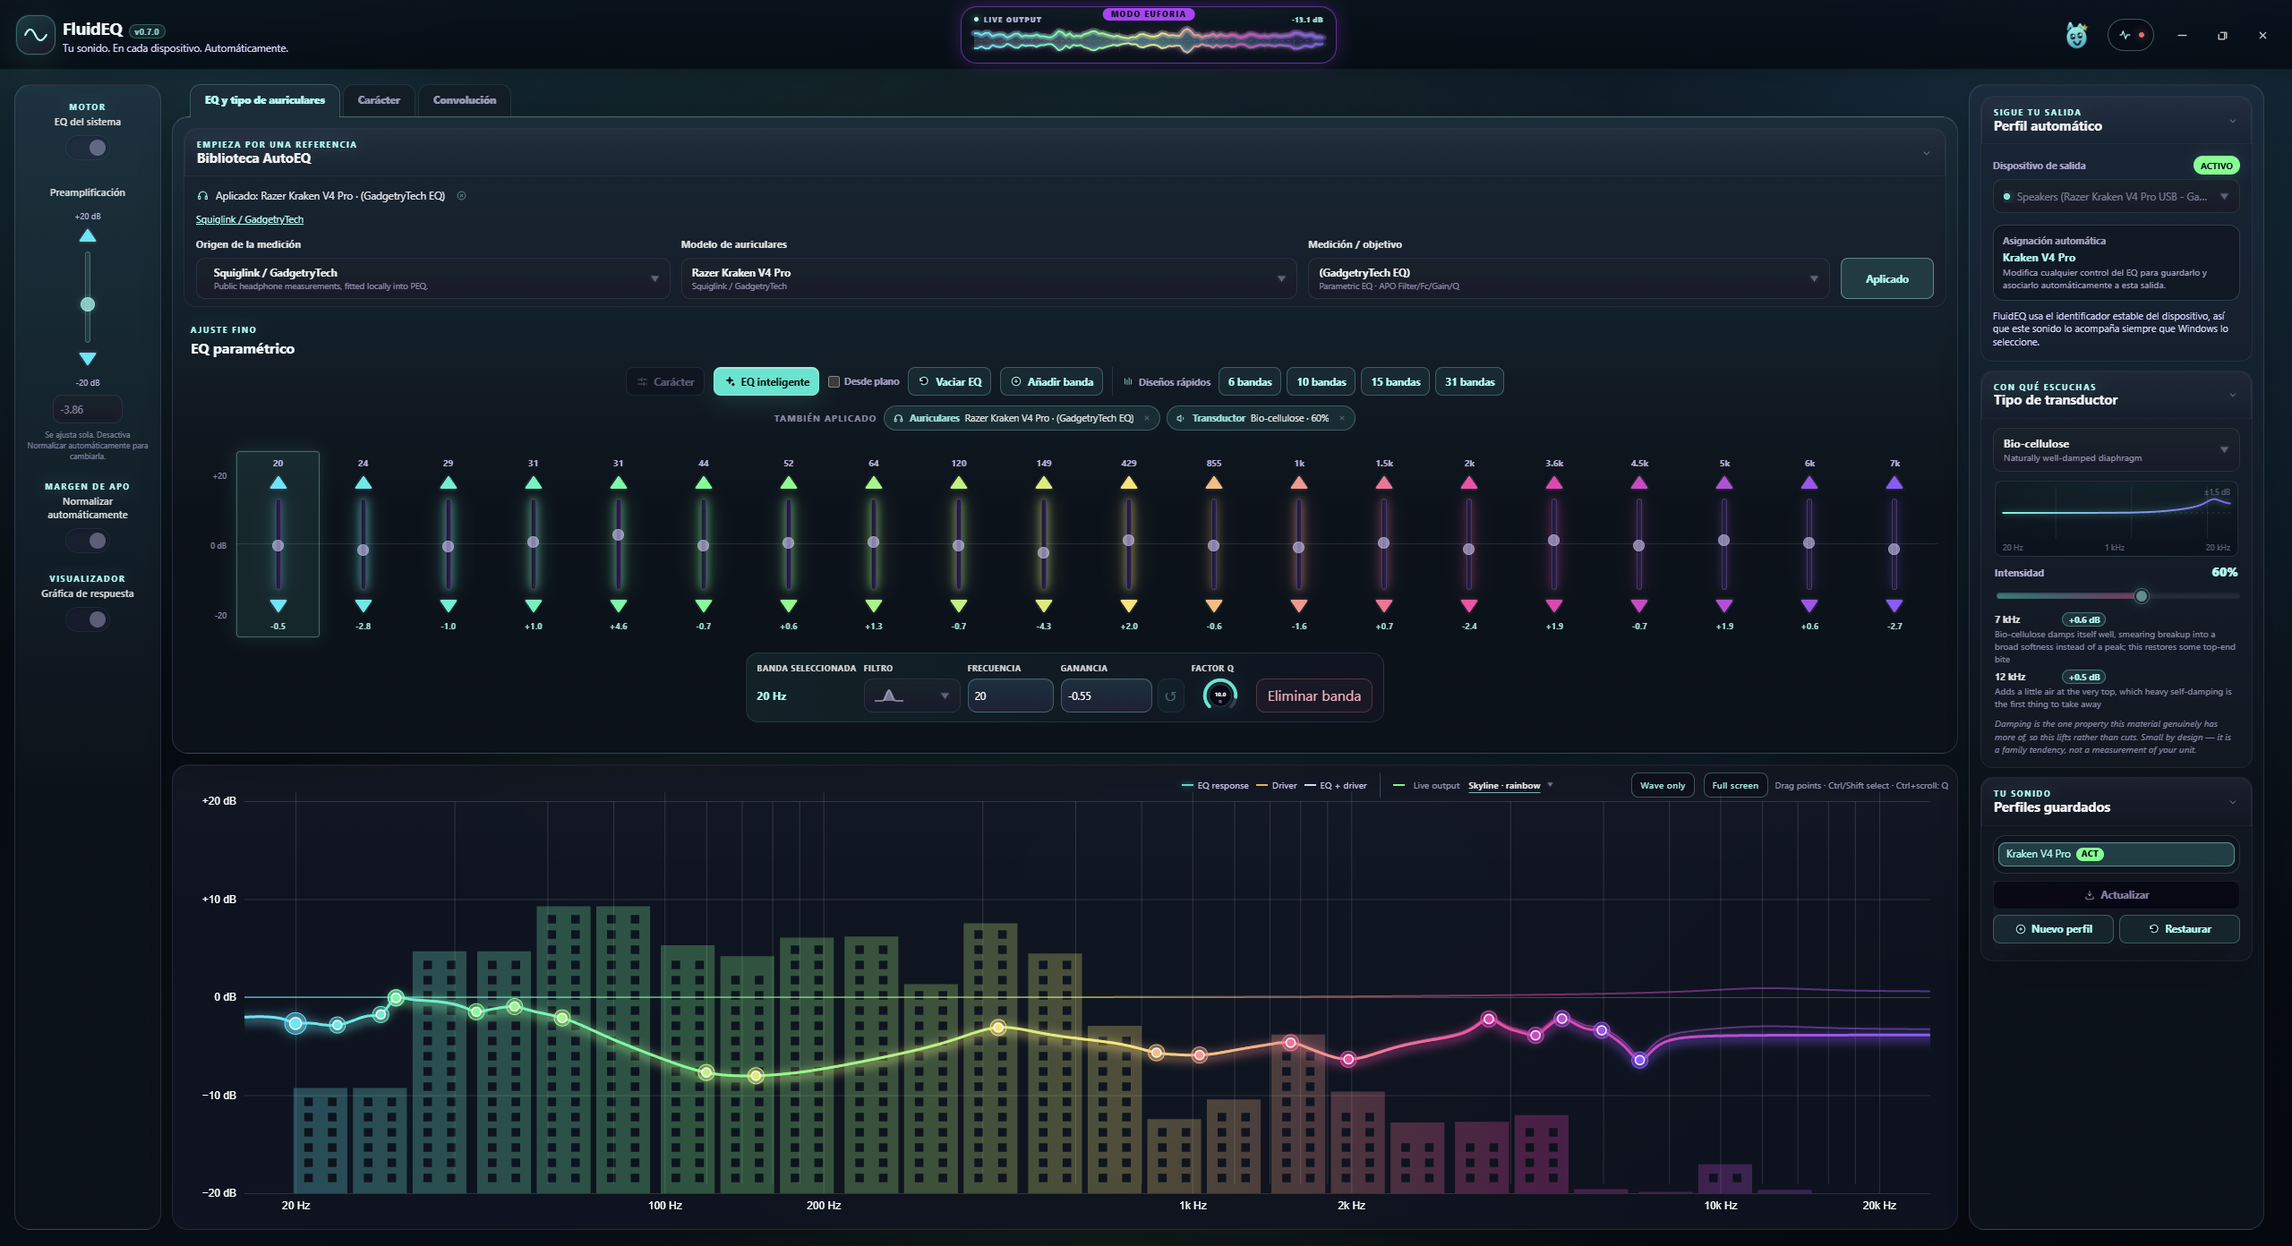
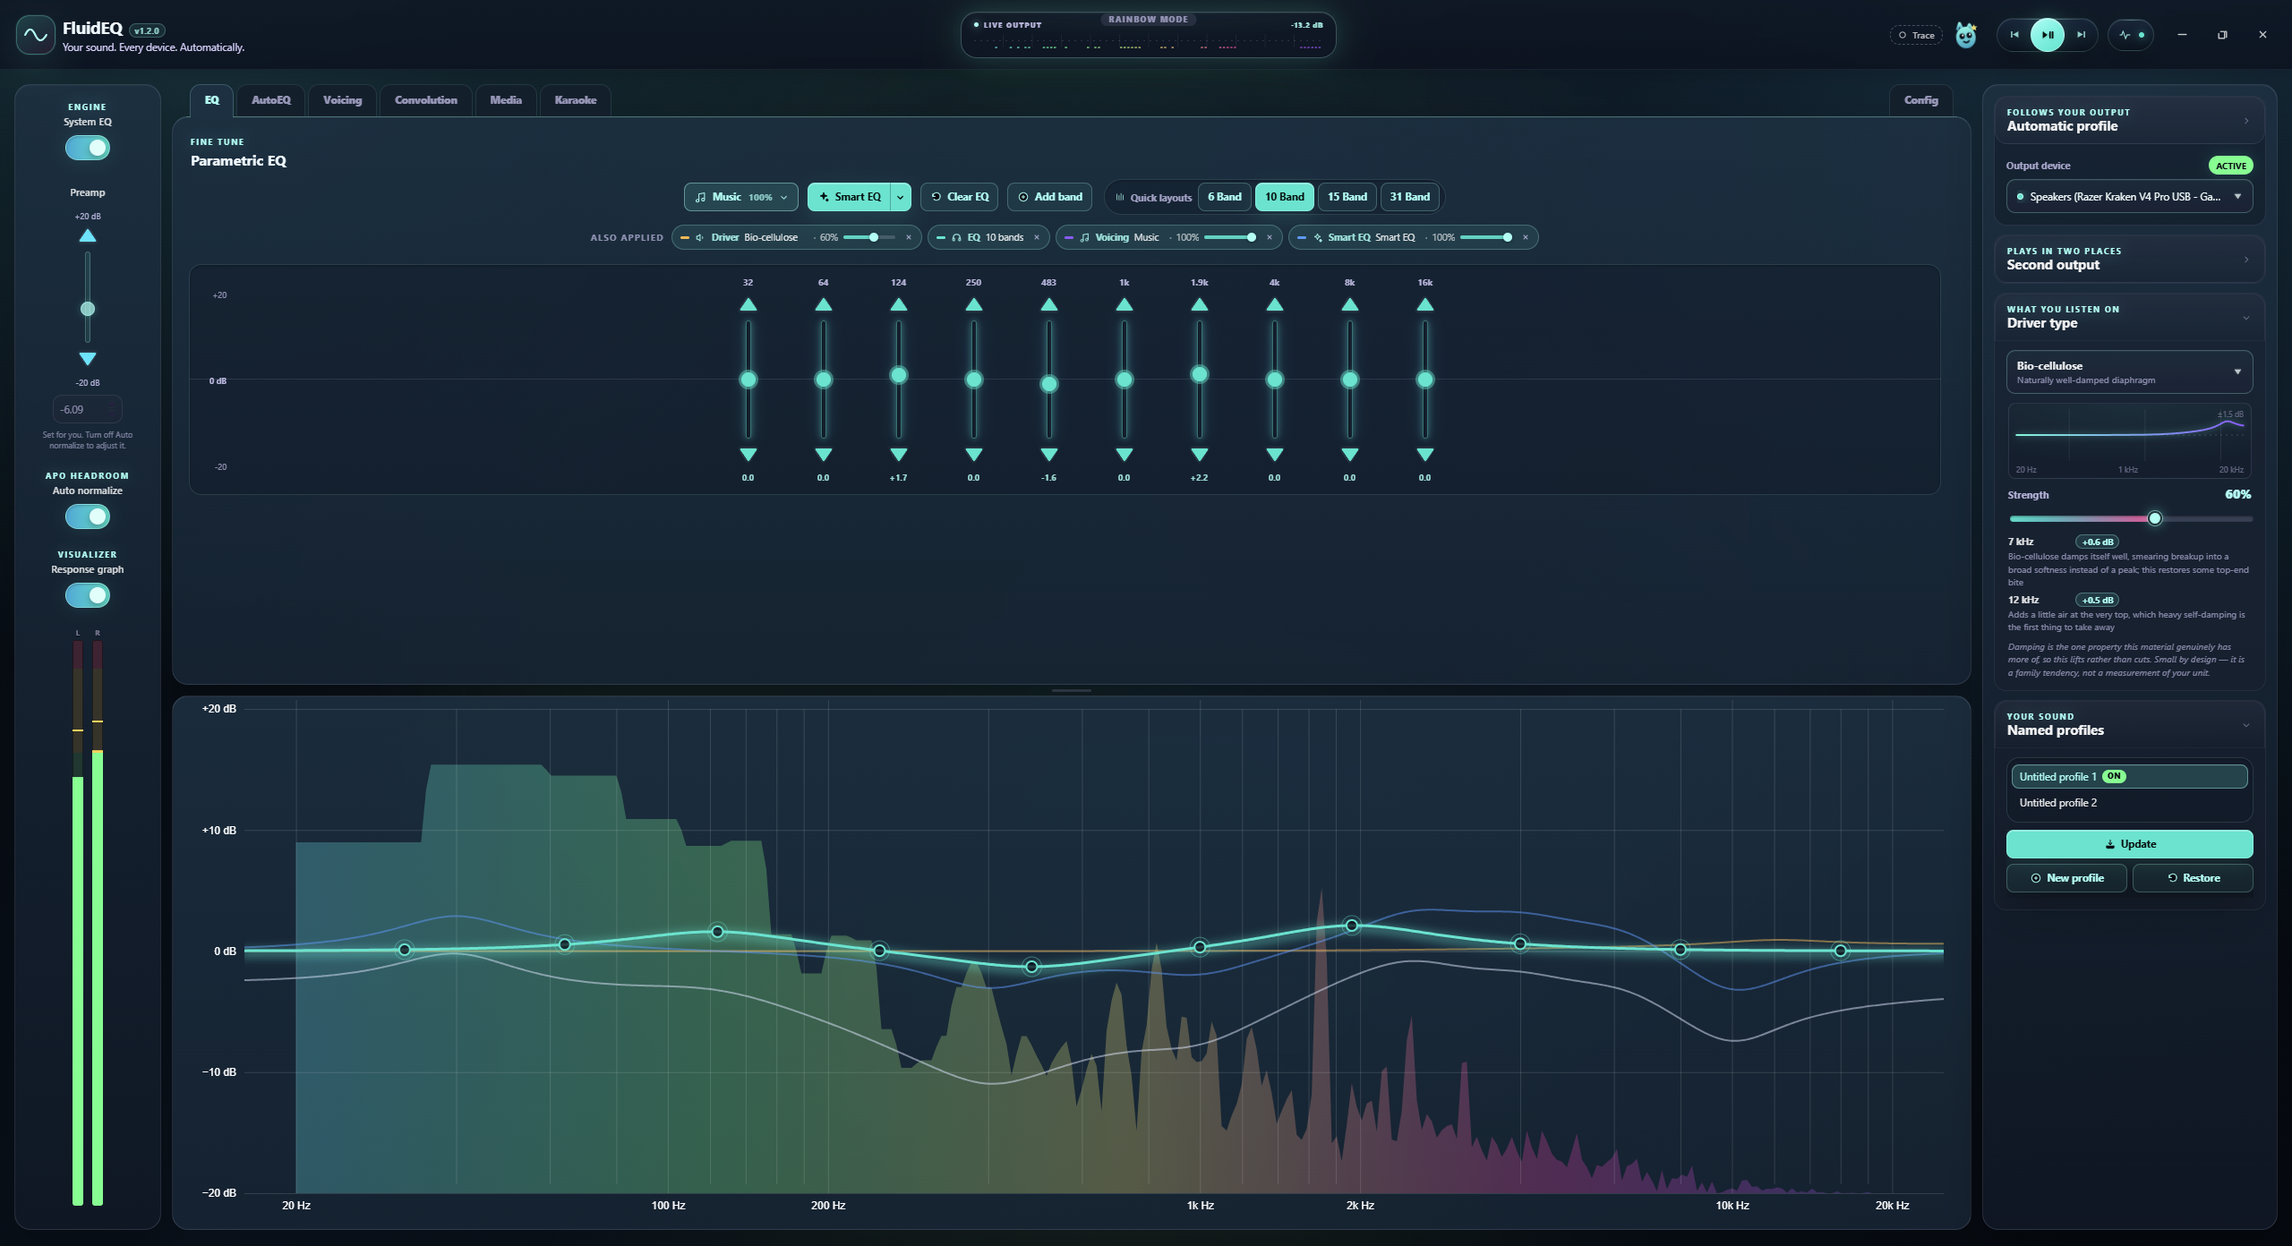
Let the release notes fill the width, and the close button take a press
Three faults in one dialog, and two of them were never about this dialog.

The text did not reflow. Every line of CHANGELOG.md became its own paragraph,
so the file's eighty-column wrapping was drawn as though it were the layout:
the prose broke two thirds of the way across a much wider window, and the gap
between two paragraphs looked the same as the gap between two lines of one.
Lines now join until the next blank one. List items were always assembled this
way; paragraphs were the omission.

The close button ignored presses near the top, and that is the titlebar. It is
a fixed drag region across the whole width, and a drag region is not something
a later element can cover — Chromium builds it as the union of the drag
rectangles minus the no-drag ones, so painting a dialog over it changes what is
drawn and not what the mouse hits. Every modal here is centred, which puts its
header inside that strip. About, Support, the bug report, the audio
troubleshooter and the score card all had the same dead band; none of them
declared no-drag. One rule matched by suffix covers them, and covers the next
one by existing rather than by being remembered.

And the dialog answered the same thing to two different questions. It opens by
itself after an update, where "what's new" means the version just installed,
and it opens from the actions menu, where somebody is asking to read and the
history is what they came for. The caller now says which, so the whole
[…]

diff --git a/src/__tests__/unit_tests/WhatsNewDialog.test.tsx b/src/__tests__/unit_tests/WhatsNewDialog.test.tsx
@@ -1,0 +1,117 @@
+/*
+<FluidEQ: System-wide parametric audio equalizer interface>
+Copyright (C) <2026>  <Ivan Carmenates Garcia>
+
+This program is free software: you can redistribute it and/or modify
+it under the terms of the GNU General Public License as published by
+the Free Software Foundation, either version 3 of the License, or
+(at your option) any later version.
+
+This program is distributed in the hope that it will be useful,
+but WITHOUT ANY WARRANTY; without even the implied warranty of
+MERCHANTABILITY or FITNESS FOR A PARTICULAR PURPOSE.  See the
+GNU General Public License for more details.
+
+You should have received a copy of the GNU General Public License
+along with this program.  If not, see <https://www.gnu.org/licenses/>.
+*/
+
+import { render, screen, waitFor } from '@testing-library/react';
+import WhatsNewDialog from 'renderer/components/WhatsNewDialog';
+import { I18nProvider } from 'renderer/utils/I18nContext';
+
+const NOTES = [
+  '## 1.2.0',
+  '',
+  'One sentence of a paragraph,',
+  'wrapped by the editor at eighty columns,',
+  'across three lines of the file.',
+  '',
+  'A second paragraph that must not join the first.',
+  '',
+  '### New',
+  '',
+  '- A bullet that also wraps',
+  '  onto an indented line',
+  '- A second bullet',
+].join('\n');
+
+/** What the main process was asked for, so the two entry points can be told apart. */
+let requestedScope: string | undefined;
+
+const showNotes = (markdown: string, scope: 'latest' | 'all' = 'latest') => {
+  requestedScope = undefined;
+  window.electron = {
+    ipcRenderer: {
+      getChangelog: (asked: string) => {
+        requestedScope = asked;
+        return Promise.resolve(markdown);
+      },
+    },
+  } as unknown as typeof window.electron;
+  return render(
+    <I18nProvider>
+      <WhatsNewDialog scope={scope} onClose={() => {}} />
+    </I18nProvider>,
+  );
+};
+
+describe('the release notes the dialog draws', () => {
+  it('joins a wrapped paragraph into one flowing block', async () => {
+    // The file is wrapped at eighty columns for reading in an editor. Drawing
+    // each of those lines as its own paragraph made the dialog break its text
+    // two thirds of the way across, whatever width it had been given.
+    const { container } = showNotes(NOTES);
+    // The loading placeholder is a paragraph too, so waiting for any `p` at all
+    // would be satisfied before the notes have arrived.
+    await waitFor(() => expect(container.querySelector('li')).toBeTruthy());
+
+    const paragraphs = Array.from(container.querySelectorAll('p'));
+    expect(paragraphs[0].textContent).toBe(
+      'One sentence of a paragraph, wrapped by the editor at eighty columns, across three lines of the file.',
+    );
+  });
+
+  it('keeps a blank line between two paragraphs meaning two paragraphs', async () => {
+    const { container } = showNotes(NOTES);
+    // The loading placeholder is a paragraph too, so waiting for any `p` at all
+    // would be satisfied before the notes have arrived.
+    await waitFor(() => expect(container.querySelector('li')).toBeTruthy());
+
+    const paragraphs = Array.from(container.querySelectorAll('p'));
+    expect(paragraphs).toHaveLength(2);
+    expect(paragraphs[1].textContent).toBe(
+      'A second paragraph that must not join the first.',
+    );
+  });
+
+  it('still assembles a wrapped list item, and starts the list after the prose', async () => {
+    const { container } = showNotes(NOTES);
+    await waitFor(() => expect(container.querySelector('li')).toBeTruthy());
+
+    const items = Array.from(container.querySelectorAll('li'));
+    expect(items).toHaveLength(2);
+    expect(items[0].textContent).toBe(
+      'A bullet that also wraps onto an indented line',
+    );
+  });
+
+  it('draws the version heading and not the document title', async () => {
+    await showNotes(NOTES);
+    await waitFor(() => expect(screen.getByText('1.2.0')).toBeTruthy());
+  });
+
+  it('asks for one version when it opened itself after an update', async () => {
+    const { container } = showNotes(NOTES, 'latest');
+    await waitFor(() => expect(container.querySelector('li')).toBeTruthy());
+    expect(requestedScope).toBe('latest');
+  });
+
+  it('asks for the whole history when somebody opened it deliberately', async () => {
+    // Two entry points, two questions. Opened from a menu, the history is what
+    // the reader came for; opened by itself, it is everything that is not new.
+    const { container } = showNotes(NOTES, 'all');
+    await waitFor(() => expect(container.querySelector('li')).toBeTruthy());
+    expect(requestedScope).toBe('all');
+  });
+});

diff --git a/src/renderer/components/WhatsNewDialog.tsx b/src/renderer/components/WhatsNewDialog.tsx
@@ -28,6 +28,14 @@ import '../styles/WhatsNew.scss';
 
 interface IWhatsNewDialogProps {
   onClose: () => void;
+  /**
+   * How much of the file to show, decided by how the dialog was opened.
+   *
+   * `latest` for the one that opens itself after an update, where the question
+   * is what changed in the version just installed. `all` when somebody went and
+   * asked for it, where the history is what they came for.
+   */
+  scope: 'latest' | 'all';
 }
 
 /**
@@ -58,6 +66,27 @@ const renderInline = (text: string, keyPrefix: string) => {
 const renderChangelog = (markdown: string) => {
   const blocks: ReactElement[] = [];
   let listItems: string[] = [];
+  let paragraph: string[] = [];
+
+  /**
+   * A paragraph is every line up to the next blank one, joined.
+   *
+   * Each source line used to become its own `<p>`, which meant the file's
+   * 80-column wrapping was drawn as if it were the layout: the text broke where
+   * the editor had broken it, two thirds of the way across a much wider dialog,
+   * and the gap between one paragraph and the next looked the same as the gap
+   * between two lines of one. Joining first lets the text reflow to whatever
+   * width it is given, which is what a paragraph is for. List items have always
+   * been assembled this way; paragraphs were the omission.
+   */
+  const flushParagraph = (key: string) => {
+    if (paragraph.length === 0) {
+      return;
+    }
+    const text = paragraph.join(' ');
+    blocks.push(<p key={key}>{renderInline(text, key)}</p>);
+    paragraph = [];
+  };
 
   const flushList = (key: string) => {
     if (listItems.length === 0) {
@@ -83,6 +112,7 @@ const renderChangelog = (markdown: string) => {
     // A list item can wrap onto the following lines; anything indented that is
     // not itself a bullet belongs to the item above it.
     if (/^[-*]\s+/.test(line)) {
+      flushParagraph(key);
       listItems.push(line.replace(/^[-*]\s+/, ''));
       return;
     }
@@ -94,10 +124,12 @@ const renderChangelog = (markdown: string) => {
     flushList(key);
 
     if (!line || line === '---') {
+      flushParagraph(key);
       return;
     }
     const heading = line.match(/^(#{1,4})\s+(.*)$/);
     if (heading) {
+      flushParagraph(key);
       const level = heading[1].length;
       const content = renderInline(heading[2], key);
       if (level <= 1) {
@@ -112,14 +144,18 @@ const renderChangelog = (markdown: string) => {
       }
       return;
     }
-    blocks.push(<p key={key}>{renderInline(line, key)}</p>);
+    paragraph.push(line);
   });
 
   flushList('tail');
+  flushParagraph('tail-paragraph');
   return blocks;
 };
 
-export default function WhatsNewDialog({ onClose }: IWhatsNewDialogProps) {
+export default function WhatsNewDialog({
+  onClose,
+  scope,
+}: IWhatsNewDialogProps) {
   const { t } = useTranslation();
   const [markdown, setMarkdown] = useState<string>();
   const closeRef = useRef<HTMLButtonElement>(null);
@@ -137,10 +173,10 @@ export default function WhatsNewDialog({ onClose }: IWhatsNewDialogProps) {
 
   useEffect(() => {
     window.electron.ipcRenderer
-      .getChangelog()
+      .getChangelog(scope)
       .then((text) => setMarkdown(text))
       .catch(() => setMarkdown(''));
-  }, []);
+  }, [scope]);
 
   return (
     <div

diff --git a/src/renderer/App.tsx b/src/renderer/App.tsx
@@ -243,9 +243,15 @@ const AppContent = () => {
   // the only route to "Install Equalizer APO" was gone until the error
   // changed, which for a missing engine it never does.
   const [prereqNonce, setPrereqNonce] = useState(0);
-  const [showWhatsNew, setShowWhatsNew] = useState(
+  // Null when closed, otherwise how much of the changelog to show. The dialog
+  // that opens itself after an update answers "what changed in the version I
+  // just got"; the one somebody opens from a menu is a request to read, and
+  // gets the history. Same dialog, two questions.
+  const [whatsNewScope, setWhatsNewScope] = useState<'latest' | 'all' | null>(
     () =>
-      !!APP_VERSION && localStorage.getItem(WHATS_NEW_SEEN_KEY) !== APP_VERSION,
+      !!APP_VERSION && localStorage.getItem(WHATS_NEW_SEEN_KEY) !== APP_VERSION
+        ? 'latest'
+        : null,
   );
   // Set from inside the graph pane; read here because the elements that have
   // to get out of the way are not the graph's — the EQ panel is its sibling,
@@ -895,7 +901,7 @@ const AppContent = () => {
                           role="menuitem"
                           onClick={() => {
                             setShowAudioToolsMenu(false);
-                            setShowWhatsNew(true);
+                            setWhatsNewScope('all');
                           }}
                         >
                           <MenuIcon name="info" />
@@ -1462,15 +1468,16 @@ const AppContent = () => {
         {/* Bottom left, opposite the failure notices, so two things arriving
             at once do not land on top of each other. */}
         <UpdateNotice />
-        {showWhatsNew && (
+        {whatsNewScope && (
           <WhatsNewDialog
+            scope={whatsNewScope}
             onClose={() => {
               // Written on close rather than on open: a dialog dismissed by a
               // crash should still be shown again.
               if (APP_VERSION) {
                 localStorage.setItem(WHATS_NEW_SEEN_KEY, APP_VERSION);
               }
-              setShowWhatsNew(false);
+              setWhatsNewScope(null);
             }}
           />
         )}
@@ -1480,8 +1487,8 @@ const AppContent = () => {
             // notes is a detour from deciding whether to contribute, not a
             // departure from it — closing them should put you back where you
             // were, not leave you staring at the workspace.
-            onShowReleaseNotes={() => setShowWhatsNew(true)}
-            isCovered={showWhatsNew}
+            onShowReleaseNotes={() => setWhatsNewScope('all')}
+            isCovered={whatsNewScope !== null}
             hasContributed={hasContributed}
             onContributed={() => {
               localStorage.setItem(SUPPORT_CONTRIBUTED_KEY, 'true');

diff --git a/src/main/main.ts b/src/main/main.ts
@@ -3638,10 +3638,16 @@ ipcMain.on('quit-app', () => {
  * editing CHANGELOG.md and nothing else — no constant to update, no chance of
  * the two drifting apart. It is also the same file people read on GitHub.
  *
- * Only the newest section crosses to the renderer. The whole history is what
- * the file is for; it is not what "What's new" means.
+ * The dialog opens two ways and they are not the same question. After an update
+ * it opens by itself, and there "what's new" means the version just installed —
+ * everything below it is by definition not new. Opened deliberately, from the
+ * actions menu or from the support panel, it is somebody asking to read, and
+ * the whole history is a fair answer.
+ *
+ * So the caller says which it wants, and the slicing happens here rather than
+ * in the renderer because this is where the file is read.
  */
-ipcMain.handle('get-changelog', () => {
+ipcMain.handle('get-changelog', (_event, scope: 'latest' | 'all') => {
   const candidates = [
     path.join(process.resourcesPath, 'CHANGELOG.md'),
     path.join(__dirname, '../../CHANGELOG.md'),
@@ -3652,7 +3658,8 @@ ipcMain.handle('get-changelog', () => {
     return '';
   }
   try {
-    return latestReleaseNotes(fs.readFileSync(found, 'utf8'));
+    const markdown = fs.readFileSync(found, 'utf8');
+    return scope === 'all' ? markdown : latestReleaseNotes(markdown);
   } catch {
     return '';
   }

diff --git a/src/renderer/styles/App.scss b/src/renderer/styles/App.scss
@@ -273,6 +273,23 @@ select option {
 
 // *** Titlebar ***************************************************************
 
+// Every full-window overlay opts out of dragging the window.
+//
+// The titlebar below is a fixed drag region across the whole top of the window,
+// and a draggable region is not something a later element can cover: Chromium
+// builds it as the union of the `drag` rectangles minus the `no-drag` ones, so
+// painting a dialog on top of it changes what is drawn and not what the mouse
+// hits. Every modal here is centred, which puts its header — and its close
+// button — inside that strip, where the press became the start of a window drag
+// and the button never saw it. It failed only near the top of the dialog, which
+// reads as a flaky button rather than as the titlebar it actually is.
+//
+// Matched by suffix so a new dialog is covered by existing it, rather than by
+// remembering. Anything ending `-backdrop` covers the window by definition.
+[class$='-backdrop'] {
+  -webkit-app-region: no-drag;
+}
+
 .window-titlebar {
   position: fixed;
   z-index: 100;

diff --git a/src/main/api.ts b/src/main/api.ts
@@ -91,9 +91,14 @@ const toggleMaximizeWindow = () =>
 
 const closeWindow = () => ipcRenderer.invoke('window-close') as Promise<void>;
 
-/** The release notes that shipped with this build. */
-const getChangelog = () =>
-  ipcRenderer.invoke('get-changelog') as Promise<string>;
+/**
+ * The release notes that shipped with this build.
+ *
+ * `latest` is the version just installed and nothing else; `all` is the whole
+ * file. Which one is right depends on whether the reader asked to see this.
+ */
+const getChangelog = (scope: 'latest' | 'all') =>
+  ipcRenderer.invoke('get-changelog', scope) as Promise<string>;
 
 /** Quit and run the update that has already been downloaded. */
 const installUpdate = () =>

diff --git a/CHANGELOG.md b/CHANGELOG.md
@@ -8,18 +8,13 @@ actions menu opens it again any time.
 
 ## 1.2.0
 
-FluidEQ has a Karaoke tab. It sits between Media and Config, it plays songs you
-already own, and it is the largest single thing this program has been given: a
-lyric stage, a live pitch lane, a microphone that is measured rather than
-recorded, a chord guide guessed out of the backing track, and a full-screen mode
-for standing back from the screen. None of it reaches the network and none of it
-is a catalogue — FluidEQ ships no songs and no lyrics, and downloads none.
+FluidEQ has a Karaoke tab: songs you already own, with the words, your pitch
+drawn against the melody, and the chords guessed out of the backing track. It
+ships no music and downloads none.
 
-The equaliser did not stand still. The other half of this release is about what
-Equalizer APO has on disk: the file FluidEQ leaves for your own commands is now a
-layer you can see, and an edit you make in APO itself no longer goes unnoticed.
-Auto-normalise also takes back a decision made in 1.0.0 that turned out to be
-wrong, and that one is audible.
+The rest of the release is about the config on disk. Your own APO commands are a
+layer you can see, an edit made in APO itself no longer goes unnoticed, and
+auto-normalise takes back a decision from 1.0.0 that you will hear.
 
 ### New
 
